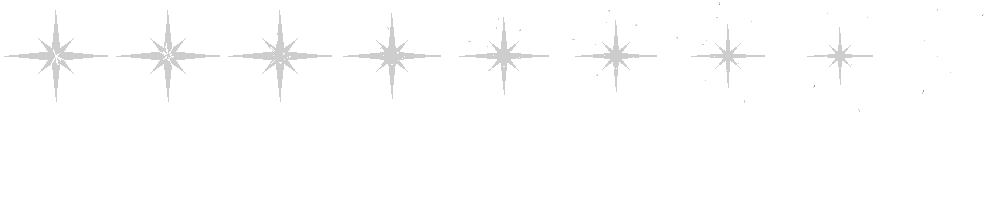
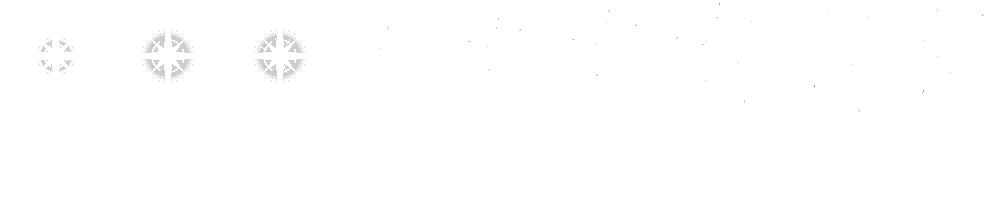
별 섬광 v2: 진한 색 원반과 둘레의 주변광
사용자가 INARI 화면을 주며 "이런 느낌의 원과 십자 주변의 빨간 주변광"을 요청.

- flare·flare-s: 가는 원 대신 진한 색 원반(밝은 테두리, 안쪽 밝은 띠) -> 가운데부터 비워지는 고리 -> 토막
- 빛 층: 원반 둘레로 넓게 번지는 주변광, 테두리를 감싸는 빛 (빛의 원은 남기지 않는다)
- 색은 지금처럼 게임이 입힌다 (게이지 구간·강화 색)

diff --git a/tools/make_fx2.py b/tools/make_fx2.py
@@ -315,8 +315,9 @@ FLARE_S_META = dict(size=[112, 112], origin=[56, 56], duration=0.3, fps=30, opti
 
 
 def flare_create(o):
-    """별 섬광 (사용자가 준 INARI 그림): 크고 진한 색 빛 원반 한가운데에 흰 여덟 갈래 별, 둘레에 작은 반짝임과 불티.
-    색 층 = 별의 색 가장자리·반짝임, 흰 심 = 별 가운데. 큰 빛 원반은 빛 층이 맡는다(게임이 색을 곱한다)."""
+    """별 섬광 v2 (2026-11-24 사용자가 준 INARI 화면): **진한 색 원반**(밝은 테두리, 안쪽의 옅은 겹) 한가운데에 흰 여덟 갈래 별,
+    원반 둘레로 넓게 번지는 같은 색 주변광, 불티. 원반은 두세 장 꽉 찼다가 가운데부터 비워져 고리가 되고 토막 나 사라진다.
+    색 층 = 원반·별의 색 가장자리·불티(게임이 색을 곱한다), 흰 심 = 별·반짝임, 빛 층 = 주변광."""
     core = o['layer'] == 'core'
     z = o['k']                                               # 크기 (1 = 큰 별, 0.5 = 작은 별)
     rng = Rng(o['seed'])
@@ -324,6 +325,8 @@ def flare_create(o):
     ps.burst(SPARK, 0, 0, int(16 * z), (260 * z, 760 * z), (0.2, 0.42), up=60 * z)
     ps.burst(MOTE, 0, 0, int(14 * z), (120 * z, 420 * z), (0.22, 0.4), size=(0.8, 1.8))
     twinkles = [(rng.range(-80, 80) * z, rng.range(-70, 70) * z, rng.range(0.02, 0.2), rng.range(3, 7)) for _ in range(int(12 * z))]
+    RD = (58 if z >= 1 else 52) * z                           # 원반 반지름 (별의 긴 팔보다 조금 짧다: 별 끝이 원반 밖으로 나온다)
+    hold = 0.1 if z >= 1 else 0.067                           # 원반이 꽉 찬 시간 (큰 별 세 장, 작은 별 두 장)
     t = [0.0]
 
     class Flare:
@@ -333,31 +336,51 @@ def flare_create(o):
 
         def draw(self, p):
             u = t[0]
-            k = 1.0 if u < 0.07 else max(0.0, 1.0 - (u - 0.07) / 0.2)       # 별: 두 장 꽉 찼다가 빠르게 준다
+            # ----- 원반 -> 고리 (색 층) -----
+            v = (u - hold) / 0.14                              # 0 -> 1: 비워지며 퍼지고 토막 난다 (고리는 짧게: 오래 남으면 동그라미 도형으로 보인다)
+            r = RD * (0.72 if u < 0.03 else 1.0) * (1.0 + 0.22 * out_cubic(max(0.0, min(1.0, v))))
+            if not core and v < 1:
+                if v <= 0:
+                    p.disc(0, 0, r, G[2])                                          # 진한 색 면
+                    p.ring(0, 0, r * 0.87, r * 0.12, (232, 232, 232))               # 테두리 안쪽의 조금 밝은 띠 (면이 민짜로 보이지 않게)
+                    p.ring(0, 0, r * 0.62, max(1.5, 2.2 * z), G[3], gaps=5, phase=o['seed'])    # 안쪽의 옅은 겹 (끊어진 가는 고리)
+                    p.ring(0, 0, r - 1.2, max(2.0, 3.6 * z), G[3])                  # 밝은 테두리
+                else:
+                    hole = (r - 3) * out_expo(min(1.0, v * 2.2))                    # 가운데부터 빠르게 비워진다
+                    w = max(1.2, r - hole)
+                    fade = 1.0 if v < 0.45 else max(0.0, 1.0 - (v - 0.45) / 0.55)
+                    p.ring(0, 0, (r + hole) / 2, w, G[2] if w > 4 else G[3], a=fade, gaps=0 if v < 0.3 else 5, phase=o['seed'] + v * 2)
+                    if w > 4:
+                        p.ring(0, 0, r - 1.2, max(1.5, 2.6 * z), G[3], a=fade)
+            # ----- 별 -----
+            k = 1.0 if u < 0.07 else max(0.0, 1.0 - (u - 0.07) / 0.2)       # 두 장 꽉 찼다가 빠르게 준다
             if k > 0.05:
-                for i in range(8):
-                    ang = TAU * i / 8
-                    ln = (86 if i % 2 == 0 else 46) * (0.55 + 0.45 * k) * (1.15 if i % 4 == 0 else 1.0) * z
-                    w = (9 if i % 2 == 0 else 6) * k * (0.5 + 0.5 * z)
+                for n in range(8):
+                    ang = TAU * n / 8
+                    ln = (86 if n % 2 == 0 else 46) * (0.55 + 0.45 * k) * (1.15 if n % 4 == 0 else 1.0) * z
+                    w = (9 if n % 2 == 0 else 6) * k * (0.5 + 0.5 * z)
                     c, s_ = math.cos(ang), math.sin(ang)
                     if core:
                         p.needle(0, 0, c * ln, s_ * ln, WHITE, max(1.0, w))
                     else:
-                        p.needle(0, 0, c * ln * 1.06, s_ * ln * 1.06, G[2], w + 3.5)
+                        p.needle(0, 0, c * ln * 1.06, s_ * ln * 1.06, G[3], w + 3.5)
                 if core:
                     p.disc(0, 0, (9 * k + 1) * (0.4 + 0.6 * z), WHITE)
             for x, y, t0, arm in twinkles:                             # 둘레의 작은 십자 반짝임
-                v = (u - t0) / 0.16
-                if 0 <= v < 1 and core:
-                    a_ = arm * math.sin(math.pi * v)
+                tv = (u - t0) / 0.16
+                if 0 <= tv < 1 and core:
+                    a_ = arm * math.sin(math.pi * tv)
                     p.line(x - a_, y, x + a_, y, WHITE)
                     p.line(x, y - a_, x, y + a_, WHITE)
             if not core:
                 ps.draw(p)
-                g = 1.0 if u < 0.1 else max(0.0, 1.0 - (u - 0.1) / 0.3)
-                p.glow(0, 0, 100 * z, WHITE, 150 * g)                 # 큰 빛 원반 (진하게: 이 이펙트의 주인공)
-                p.glow(0, 0, 58 * z, WHITE, 130 * g)
-                p.glow_ring(0, 0, (60 + 30 * out_expo(u / 0.3)) * z, 9 * z, WHITE, 70 * g)
+                # ----- 주변광 (빛 층): 원반 밖으로 넓게 번지는 같은 색 빛. 원반이 있는 동안 가장 진하다 -----
+                g = 1.0 if u < hold + 0.03 else max(0.0, 1.0 - (u - hold - 0.03) / 0.26)
+                p.glow(0, 0, RD * 2.5, WHITE, 150 * g)                 # 넓은 주변광
+                p.glow(0, 0, RD * 1.7, WHITE, 170 * g)                 # 원반 둘레의 진한 빛
+                if v < 1:                                              # 테두리를 감싸는 빛: 원반·고리가 있는 동안만 (남으면 빛의 원이 도형처럼 보인다)
+                    p.glow_ring(0, 0, r, RD * 0.6, WHITE, 170 * (1.0 if v <= 0 else (1.0 - v) ** 2))
+                p.glow(0, 0, RD * 0.7, WHITE, 90 * g)                  # 가운데를 달군다
     return Flare()
 
 

diff --git a/docs/PROGRESS.md b/docs/PROGRESS.md
@@ -325,3 +325,4 @@
 2026-11-24 [Claude Code] haze-inari 보류(사용자: '퀄리티 차이가 너무 난다. haze-inari는 두고 쓰지 말자, 블러까지 들어간 haze-fx를 쓰자'): haze-fx를 영상 기법을 넣기 전 내용으로 되돌리고(입자·blob 설명만 보탬) 보류 안내를 적음, haze-inari 설명을 '이름으로 부를 때만'으로 바꿈, 건틀릿 반격의 반짝임과 glint 시트 삭제(레시피는 보기 전용 시안으로) / .claude/skills/(haze-fx, haze-inari)/SKILL.md, src/(effects, weapon).py, tools/make_fx2.py, assets/effects/glint.*, assets/light/glow_glint.png, docs/(SKILLS, ASSETS, DECISIONS, PROGRESS).md, AGENTS.md
 2026-11-24 [Claude Code] 사용자 요청 3건 + haze-fx 개편 1차: (1) 붓질 초승달·반짝임 시험 적용을 되돌림. (2) 마무리(처형·궁극기)의 블러가 맞은 적들도 양옆으로 번지게(BlurSmear victims, FinisherCut이 맞은 적의 마지막 모습을 따라간다, 테스트 2개). (3) 오버로드 기절 연출 개편('감전 효과와 화면 전체의 지지직 줄이 별로'): 전기 아크 오라·노란 깜빡임·떨림·주황 틴트·계단 비네트·깜빡이는 가로줄을 없애고 '과열'로 - 몸을 감싸 타오르는 붉은 불길 오라(aura-stun, 반복 16장, 빛 시트), 붉게 달아오르는 몸, 휘청인 자세, 심장 박자로 조이는 부드러운 붉은 가장자리. (4) 입자 구성으로 다시 만듦(pb_create: 오버로드 폭발과 같은 구성을 크기별로): 타격 불꽃 7종·헤이즈 폭발·궁극기 폭발 5종·소멸·바닥 충격, 충격 방사선(맞은 방향으로 쏠린 분출)·충격 고리 3종(입자 띠). 별 섬광(flare)·베기 자국·처형 시트는 그대로. 테스트 590개 / src/(effects, weapon, player, ui, config).py, tools/make_fx2.py, tests/(test_ultimate, test_dash_mark).py, assets/effects/(hit-*, haze-blast, ult-nova-*, death-burst, quake-blast, impact-rays*, shock-ring-*, aura-stun).*, assets/light/glow_*.png, .claude/skills/haze-fx/SKILL.md, docs/(ASSETS, DECISIONS, PROGRESS).md
 2026-11-24 [Claude Code] 궁극기 마무리를 대시 마무리(처형)처럼(사용자: '이펙트가 나가면서 블러가 화려하게 싹 들어가는 느낌이 안 난다'): 예전에는 폭발이 적들 사이 빈 자리에서 한 번만 터지고 적에게는 옅은 잔상만 번졌다 -> 폭발(fin-burst)·검은 실루엣이 맞은 적마다(최대 6), 빛줄기는 적들의 높이마다, 블러는 적마다 빛 띠와 흰 속도선이 깔리고 흰색·색 잔상 네 겹이 멀리 벌어졌다가 빠르게 모인다. 테스트 1개(591개) / src/(weapon, effects).py, tests/test_ultimate.py, docs/(DECISIONS, PROGRESS).md
+2026-11-24 [Claude Code] 별 섬광 v2(사용자가 INARI 화면을 주며 '이런 느낌의 원과 십자 주변의 빨간 주변광'): flare·flare-s에 진한 색 원반(밝은 테두리, 안쪽 밝은 띠와 끊어진 겹)을 넣고 가는 원 대신 원반 -> 가운데부터 비워지는 고리 -> 토막으로, 빛 층에 원반 둘레로 넓게 번지는 주변광과 테두리를 감싸는 빛. 색은 지금처럼 게임이 입힌다(구간·강화 색). 평타·대시 공격을 실제 창에서 확인 / tools/make_fx2.py, assets/effects/(flare, flare-s).*, assets/light/glow_(flare, flare-s).png, .claude/skills/haze-fx/SKILL.md, docs/(ASSETS, DECISIONS, PROGRESS).md

diff --git a/.claude/skills/haze-fx/SKILL.md b/.claude/skills/haze-fx/SKILL.md
@@ -114,6 +114,9 @@ def create(o):
   타격처럼 작은 것은 덩이(`body`)를 줄이고 불티·조각을 늘린다(덩이가 많으면 솜처럼 보인다). 두 겹 시트로 쓰려면 TINTS에 등록하면 된다(`layer`를 알아서 처리).
 - 반복 오라: `LOOPS`·`build_loop`(aura-stun = 오버로드 기절의 붉은 불길). 같은 뿌리기 일정을 주기마다 되풀이하고 한 주기를 먼저 돌린 뒤 굽는다. 불길은 뿌리에서 끝으로 가늘어지는
   덩이의 줄(혀)로 그린다: 불덩이 입자를 흩뿌리면 솜뭉치처럼 보였다. 빛 시트가 있으면 `effects.draw_loop`가 같이 그린다.
-- **그대로 둔 것**: 별 섬광 flare·flare-s, 베기 자국 cut-mark, 처형 fin-burst·exec-crescent, 대시 궤적 DashStreak (사용자가 마음에 들어 한 대시 화풍). 바꾸려면 먼저 묻는다.
+- 별 섬광 flare·flare-s (v2, 사용자가 준 INARI 화면): **진한 색 원반**(G[2] 면, 밝은 테두리, 테두리 안쪽의 조금 밝은 띠) + 흰 여덟 갈래 별 + 빛 층의 **주변광**
+  (원반 반지름의 2.5배·1.7배 둥근 빛, 테두리를 감싸는 `glow_ring`). 색 층은 알파 0/255라 가장자리가 딱딱하다: 부드러운 느낌은 테두리를 감싸는 빛으로 낸다.
+  원반이 비워진 고리와 빛의 원은 오래 두지 않는다(0.14초): 남으면 동그라미 도형으로 보인다. 별은 입자로 바꾸지 않는다(미리 보기에서 뭉툭한 흰 덩이가 됐다).
+- **그대로 둔 것**: 베기 자국 cut-mark, 처형 fin-burst·exec-crescent, 대시 궤적 DashStreak (사용자가 마음에 들어 한 대시 화풍). 바꾸려면 먼저 묻는다.
 - 아직 예전 방식: dash-strike(창 모양)·shockwave(보스 충격파, 반복)·오라(make_aura.py),
   실행 중 사각형 이펙트(effects.py의 PathSlash·LightPillar·ground_slam·처치 연출 KillSlash, weapon.py의 RushTrail·표식·사슬). DashStreak는 사용자가 마음에 들어 해 그대로.

diff --git a/docs/DECISIONS.md b/docs/DECISIONS.md
@@ -660,3 +660,4 @@
 - 2026-11-24 마무리 블러(BlurSmear)는 주인공과 맞은 적 모두 번진다 (FinisherCut의 victims: 처형은 그 적, 궁극기는 피해를 준 적 전부).
 - 2026-11-24 타격 불꽃·폭발·소멸·바닥 충격·충격 방사선·충격 고리는 입자 구성(make_fx2.py pb_create·pring_create)으로 만든다. 충격 고리는 범위를 알려 주는 역할이라 반지름을 지킨 입자 띠로. 별 섬광(flare·flare-s)과 베기 자국, 처형 시트(fin-burst·exec-crescent), 대시 궤적은 사용자가 마음에 들어 한 대시 화풍이라 그대로 둔다.
 - 2026-11-24 큰 마무리(FinisherCut)의 폭발은 맞은 적마다 터진다: 처형은 그 적 하나, 궁극기는 피해를 준 적들(가운데에서 가까운 순으로 최대 6). 맞은 적이 없을 때만 연출의 중심에서 터진다. 화면 왜곡(postfx)의 중심은 그대로 연출의 중심 하나다.
+- 2026-11-24 별 섬광(flare·flare-s)의 구성: 진한 색 원반 + 흰 여덟 갈래 별 + 원반 둘레의 같은 색 주변광 (사용자가 준 INARI 화면 기준). 별은 입자로 바꾸지 않는다 (날카로운 한 점이 타격 자리를 찍는 역할, 흩어지는 조각은 타격 불꽃이 맡는다). 원반이 비워진 고리는 0.14초 안에 토막 나 사라지고, 빛의 원은 남기지 않는다.
